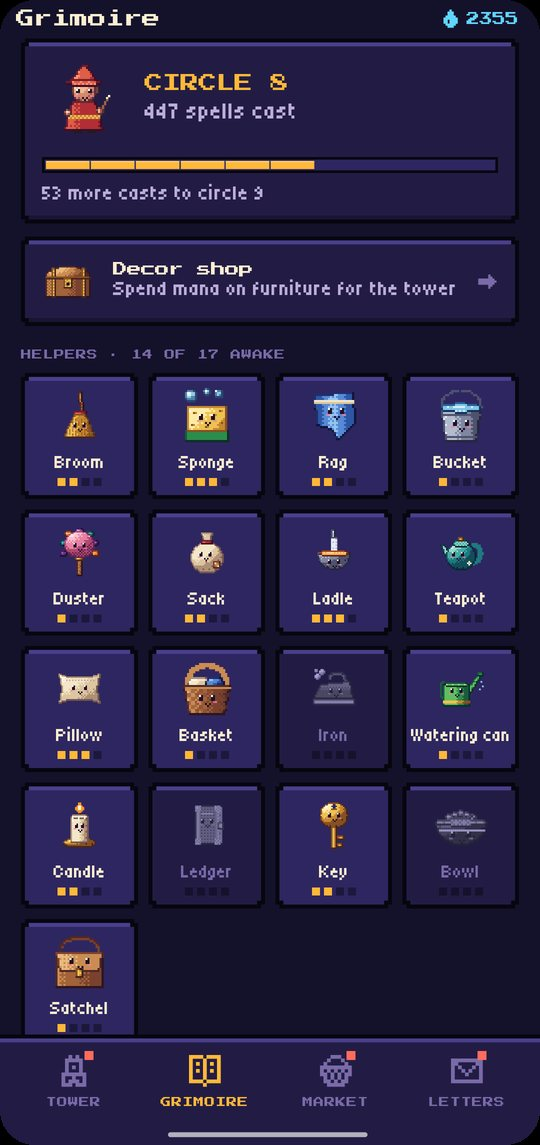
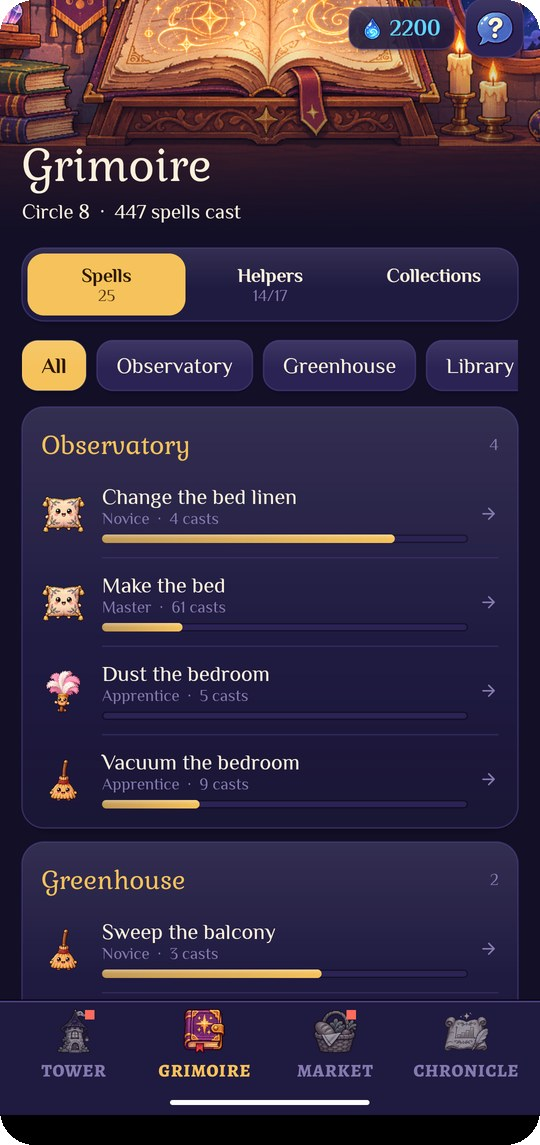
Hearthspell post: the 1.4.0 painted tower, chronicle and postcards

diff --git a/_posts/2026-12-22-hearthspell-stillcraft.md b/_posts/2026-12-22-hearthspell-stillcraft.md
@@ -5,15 +5,15 @@ tags:
 - android
 - stillcraft
 - chores
-- pixel art
+- illustration
 - games
 - open source
 thumbnail_path: blog/hearthspell-post/hero.jpg
 ---
 
-Housework is the most repeatable quest there is. Hearthspell turns your home into a wizard's tower, one floor per room, in cosy 16-bit pixel art.
+Housework is the most repeatable quest there is. Hearthspell turns your home into a wizard's tower, one floor per room, in hand-painted storybook art.
 
-The old master left his tower to you, his apprentice. The tower is your home: every floor is a room, every chore is a spell with its own rhythm. Cast it and the floor shines; forget it and harmless imps move in. Master a spell and its helper wakes up, a broom or a teapot that paces the floor. Mana buys decor, the master writes once a week, and the shopping list becomes a quest for reagents. Cozy pixel art, no streaks to lose, no ads, no account, no internet access.
+The old master left his tower to you, his apprentice. The tower is your home: every floor is a room, every chore is a spell that comes round in its own time. Cast it and the floor shines; forget it and harmless imps move in. Master a spell and its helper wakes up, a broom or a teapot that paces the floor. Mana buys decor, the master writes once a week, the shopping list becomes a quest for reagents, and a chronicle shows how your week went. Postcards share the tower with friends. Hand-painted art, no streaks to lose, no ads, no account, no internet access.
 
 {% include figure.html path=page.thumbnail_path %}
 
@@ -23,9 +23,9 @@ The old master left his tower to you, his apprentice. The tower is your home: ev
 
 ### Floors are rooms
 
-Eleven kinds of room, each a detailed pixel scene: the kitchen is the Alchemy Lab, the bedroom an Observatory under a domed window, the bathroom the Spring Baths, the hallway the Gate Hall, the balcony a Greenhouse. Rename, reorder and add floors.
+Eleven kinds of room, each a detailed painted scene: the kitchen is the Alchemy Lab, the bedroom an Observatory under a domed window, the bathroom the Spring Baths, the hallway the Gate Hall, the balcony a Greenhouse. Rename, reorder and add floors.
 
-### Spells with their own rhythm
+### Spells in their own time
 
 45 ready-made chores with sensible intervals, from the dishes every day to the oven once a moon, each with a small incantation, or your own. Freshness fades slowly instead of a checklist that resets every morning.
 
@@ -49,7 +49,19 @@ Every cast earns mana for 20 pieces of decor, from a cat to a fireplace. Each we
 
 The shopping list sorted into shop sections with tower names, the section guessed from the name. It learns how often you buy things, suggests what's running low, and market mode is a big one-hand checklist.
 
-{% include figure.html path="blog/hearthspell-post/shot-3.jpg" caption="Grimoire. Your circle and the helpers." %}
+{% include figure.html path="blog/hearthspell-post/shot-3.jpg" caption="Grimoire. Spells by floor, helpers and collections." %}
+
+### A chronicle of your week
+
+This week against the last, a chart of the last fourteen days, how tidy each floor is, your favourite spells and the totals since the tower became yours. Sunday tea still tells the week in a few warm lines; the chronicle has the numbers.
+
+{% include figure.html path="blog/hearthspell-post/shot-4.jpg" caption="Chronicle. The week, a chart and the tidiest floors." %}
+
+### Postcards
+
+Your week, the tower, the apprentice, any room, a helper, an imp you've shown the door or the treasure shelf, as a pretty card with a QR code to the app. Share it anywhere or save it to the gallery.
+
+{% include figure.html path="blog/hearthspell-post/shot-5.jpg" caption="Postcards. Every one carries a QR code to Google Play." %}
 
 ## Rooms of the tower
 
@@ -71,7 +83,7 @@ Nothing breaks. There are no streaks to lose. Spells fade, imps move in, and the
 
 **Can I add my own chores?**
 
-Yes. Any name, any interval from a day to a year, three levels of effort and the helper it wakes. You can pause a spell while you're away.
+Yes. Any name, any interval from a day to a year, three levels of effort and the helper it wakes. You can pause a spell, or every spell at once in holiday mode while you're away.
 
 **Is it for a family?**
 
